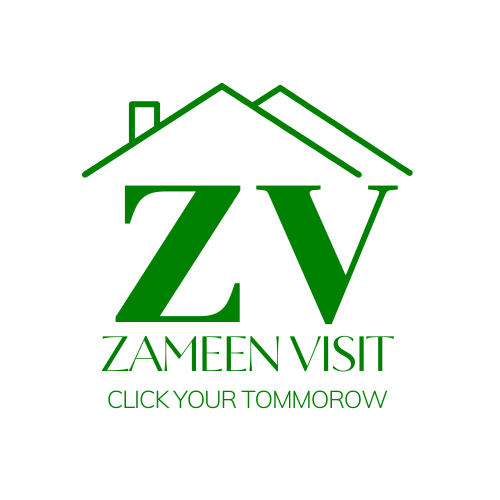
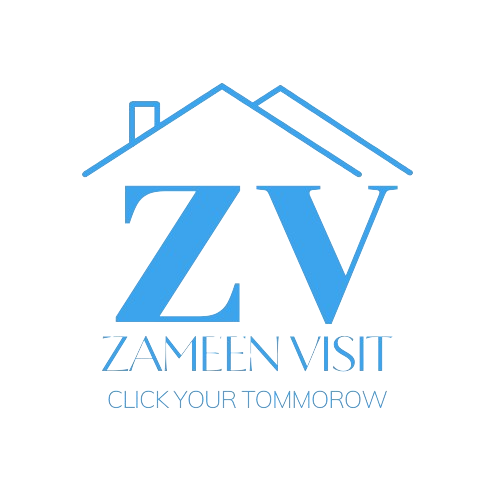
update landing page

diff --git a/src/components/property/Agencies/AgencyCitySearch.tsx b/src/components/property/Agencies/AgencyCitySearch.tsx
@@ -1,0 +1,138 @@
+"use client";
+import * as React from "react";
+import { Check, ChevronsUpDown } from "lucide-react";
+
+import { cn } from "@/lib/utils";
+import { Button } from "@/components/ui/button";
+import {
+  Command,
+  CommandEmpty,
+  CommandGroup,
+  CommandInput,
+  CommandItem,
+  CommandList,
+} from "@/components/ui/command";
+import {
+  Popover,
+  PopoverContent,
+  PopoverTrigger,
+} from "@/components/ui/popover";
+import { useFormState } from "react-dom";
+import { getCities, getLocations } from "@/server-actions/Search/location";
+import { getAgencyCities } from "@/server-actions/Agency/agency";
+
+// const cities = [
+//   "Lahore",
+//   "Karachi",
+//   "Islamabad",
+//   "Rawalpindi",
+//   "Faisalabad",
+//   "Multan",
+//   "Peshawar",
+//   "Quetta",
+//   "Gujranwala",
+//   "Sialkot",
+//   "Hyderabad",
+//   "Bahawalpur",
+//   "Sargodha",
+//   "Sukkur",
+//   "Larkana",
+//   "Sheikhupura",
+//   "Jhang",
+//   "Rahim Yar Khan",
+//   "Mardan",
+//   "Gujrat",
+//   "Kasur",
+//   "Mingora",
+//   "Dera Ghazi Khan",
+//   "Nawabshah",
+//   "Sahiwal",
+//   "Mirpur Khas",
+//   "Okara",
+//   "Mandi Bahauddin",
+//   "Jacobabad",
+//   "Jhelum",
+//   "Khanewal",
+//   "Khairpur",
+//   "Khuzdar",
+//   "Daska",
+//   "Gojra",
+//   "Mandi Bahauddin",
+//   "Muridke",
+//   "Bahawalnagar",
+//   "Pakpattan",
+//   "Tando Allahyar",
+//   "Hafizabad",
+//   "Kotli",
+//   "Loralai",
+//   "Dera Ismail Khan",
+//   "Chaman",
+//   "Turbat",
+//   "Charsadda",
+//   "Kamalia",
+//   "Umerkot",
+// ];
+
+export function AgencyCitySearch({
+  city,
+  setCity,
+}: {
+  city: string;
+  setCity: (city: string) => void;
+}) {
+  const [open, setOpen] = React.useState(false);
+
+  const [cities, setCities] = React.useState([]);
+
+  React.useEffect(() => {
+    async function getCitiesData() {
+      const data = await getAgencyCities();
+      data?.agencyCities && setCities(data.agencyCities);
+    }
+    getCitiesData();
+  }, []);
+
+  return (
+    <Popover open={open} onOpenChange={setOpen}>
+      <PopoverTrigger asChild>
+        <Button
+          variant="outline"
+          role="combobox"
+          aria-expanded={open}
+          className="w-full justify-between"
+        >
+          {city ? cities?.find((cty: string) => cty === city) : "Select a city"}
+          <ChevronsUpDown className="ml-2 h-4 w-4 shrink-0 opacity-50" />
+        </Button>
+      </PopoverTrigger>
+      <PopoverContent className=" p-0">
+        <Command>
+          <CommandInput placeholder="Search Location..." />
+          <CommandList className="">
+            <CommandEmpty>No cities found</CommandEmpty>
+            <CommandGroup>
+              {cities?.map((cty: string) => (
+                <CommandItem
+                  key={cty}
+                  value={cty}
+                  onSelect={(currentValue) => {
+                    setCity(cty);
+                    setOpen(false);
+                  }}
+                >
+                  <Check
+                    className={cn(
+                      "mr-2 h-4 w-4",
+                      cty === city ? "opacity-100" : "opacity-0"
+                    )}
+                  />
+                  {cty}
+                </CommandItem>
+              ))}
+            </CommandGroup>
+          </CommandList>
+        </Command>
+      </PopoverContent>
+    </Popover>
+  );
+}

diff --git a/src/server-actions/Agency/agency.ts b/src/server-actions/Agency/agency.ts
@@ -207,3 +207,52 @@ export async function getAgenciesByCity(city: string) {
     };
   }
 }
+
+export async function getAllAgenciesAddress(city: string) {
+  try {
+    const res = await fetch(
+      `${base.URL}/api/agency/findAgencyAddressAndCompanyByCity`,
+      {
+        method: "POST",
+        headers: {
+          "Content-Type": "application/json",
+        },
+        next: {
+          tags: ["Agency"],
+        },
+        body: JSON.stringify({
+          city,
+        }),
+      }
+    );
+
+    const data = await res.json();
+    console.log(data);
+    return data;
+  } catch (error) {
+    return {
+      error: "An error occurred while fetching agencies address",
+    };
+  }
+}
+
+export async function getAgencyCities() {
+  try {
+    const res = await fetch(`${base.URL}/api/agency/getAllAgenciesCities`, {
+      headers: {
+        "Content-Type": "application/json",
+      },
+      next: {
+        tags: ["Agency"],
+      },
+    });
+
+    const data = await res.json();
+    console.log(data);
+    return data;
+  } catch (error) {
+    return {
+      error: "An error occurred while fetching cities",
+    };
+  }
+}

diff --git a/src/app/(realEstate)/blog/page.tsx b/src/app/(realEstate)/blog/page.tsx
@@ -3,22 +3,18 @@
 // import PageInfo from "@/app/blog/PageInfo";
 import React from "react";
 import PostCard from "@/components/blog/PostCard";
+import ToolHeaderCard from "@/components/features/tools/ToolHeaderCard";
 
 export default function BlogPage() {
   return (
     <main>
+      <ToolHeaderCard
+        image="https://images.pexels.com/photos/7199669/pexels-photo-7199669.jpeg?auto=compress&cs=tinysrgb&w=600&lazy=load"
+        title="Blogs"
+        description="Stay Informed with the Latest Trends and Tips in Property Buying and Selling"
+        className="h-[450px]"
+      />
       <div className="container mx-auto">
-        {/* Page title info */}
-        {/* <section>
-               <PageInfo />
-            </section> */}
-
-        {/* Banner */}
-        {/* <section className="my-12">
-               <PostOverlayCard />
-            </section> */}
-
-        {/* All posts component */}
         <section className="my-20">
           <div className=" grid grid-cols-1 md:grid-cols-2 lg:grid-cols-3 gap-5">
             {[1, 2, 3].map((item: any) => (

diff --git a/src/components/property/PropertyMap/PlotFinderMap.tsx b/src/components/property/PropertyMap/PlotFinderMap.tsx
@@ -45,15 +45,15 @@ export default function PlotFinderMap({
     address: "",
     city: "",
     geo: {
-      lat: 31.5204,
-      lng: 74.3587,
+      lat: 30.3753,
+      lng: 69.3451,
     },
   });
 
   const [viewState, setViewState] = useState({
-    latitude: propertyList[0]?.location?.geo?.lat || 35.668641,
-    longitude: propertyList[0]?.location?.geo?.lng || 139.750567,
-    zoom: 10,
+    latitude: propertyList[0]?.location?.geo?.lat || 28.1863846711864,
+    longitude: propertyList[0]?.location?.geo?.lng || 67.6952367278874,
+    zoom: 7,
   });
 
   const router = useRouter();
@@ -69,9 +69,9 @@ export default function PlotFinderMap({
     if (location.address) {
       router.replace(`/plot-finder?location=${location.address}`);
       setViewState({
-        latitude: location?.geo?.lat || 35.668641,
-        longitude: location?.geo?.lng || 139.750567,
-        zoom: 10,
+        latitude: location?.geo?.lat || 28.1863846711864,
+        longitude: location?.geo?.lng || 67.6952367278874,
+        zoom: 15,
       });
     }
   }, [location]);

diff --git a/src/components/features/contact/ContactMap.tsx b/src/components/features/contact/ContactMap.tsx
@@ -16,8 +16,8 @@ import MapContactCard from "./MapContactCard";
 
 const mapboxToken = base.MAP_TOKEN;
 const CURRENT_LOCATION = {
-  latitude: 35.668641,
-  longitude: 139.750567,
+  latitude: 31.4242876,
+  longitude: 74.3483542,
 };
 
 export default function ContactMap() {
@@ -42,7 +42,7 @@ export default function ContactMap() {
         initialViewState={{
           latitude: CURRENT_LOCATION.latitude,
           longitude: CURRENT_LOCATION.longitude,
-          zoom: 10,
+          zoom: 15,
         }}
         maxZoom={20}
         minZoom={3}
@@ -69,7 +69,8 @@ export default function ContactMap() {
             </div>
           </Popup>
         )}
-        <Marker longitude={139.750567} latitude={35.668641}>
+
+        <Marker longitude={74.3483542} latitude={31.424287}>
           <button
             type="button"
             className="cursor-pointer"

diff --git a/src/components/property/Agencies/AgencySearchCard.tsx b/src/components/property/Agencies/AgencySearchCard.tsx
@@ -15,6 +15,7 @@ import { Label } from "@/components/ui/label";
 import { Search } from "lucide-react";
 import Link from "next/link";
 import React from "react";
+import { AgencyCitySearch } from "./AgencyCitySearch";
 
 export default function AgencySearchCard() {
   const [city, setCity] = React.useState("");
@@ -28,7 +29,7 @@ export default function AgencySearchCard() {
       <CardContent className="pt-4 grid grid-cols-5 gap-4">
         <div className="space-y-1 col-span-2">
           <Label htmlFor="city">City</Label>
-          <CitySearch city={city} setCity={setCity} />
+          <AgencyCitySearch city={city} setCity={setCity} />
         </div>
         <div className="space-y-1 col-span-2">
           <Label htmlFor="city">Agencies Location</Label>

diff --git a/src/components/common/AgenciesByCitySearch.tsx b/src/components/common/AgenciesByCitySearch.tsx
@@ -17,7 +17,10 @@ import {
   PopoverContent,
   PopoverTrigger,
 } from "@/components/ui/popover";
-import { getAgenciesByCity } from "@/server-actions/Agency/agency";
+import {
+  getAgenciesByCity,
+  getAllAgenciesAddress,
+} from "@/server-actions/Agency/agency";
 
 export function AgenciesByCitySearch({
   location,
@@ -35,9 +38,9 @@ export function AgenciesByCitySearch({
   React.useEffect(() => {
     async function getLocations() {
       console.log(city);
-      const data = await getAgenciesByCity(city);
+      const data = await getAllAgenciesAddress(city);
       console.log(data);
-      data?.agencies && setLocations(data?.agencies);
+      data?.addresses && setLocations(data?.addresses);
     }
     getLocations();
   }, [city]);

diff --git a/src/components/layout/Footer.tsx b/src/components/layout/Footer.tsx
@@ -3,6 +3,7 @@ import Image from "next/image";
 import Link from "next/link";
 import { Input } from "@/components/ui/input";
 import { Button } from "@/components/ui/button";
+import ZameenVisitLogo from "@/images/Z.png";
 
 const Footer = () => {
   return (
@@ -10,9 +11,9 @@ const Footer = () => {
       <div className="max-w-screen-xl mx-auto grid grid-cols-2 md:grid-cols-6 gap-8">
         <div className="col-span-1 md:col-span-2">
           <Image
-            src="/images/zameenVisit2.png"
+            src={ZameenVisitLogo}
             alt="Company Logo"
-            className="h-16 w-auto"
+            className=""
             width={100}
             height={100}
           />

diff --git a/src/components/features/tools/ToolHeaderCard.tsx b/src/components/features/tools/ToolHeaderCard.tsx
@@ -1,3 +1,4 @@
+import { cn } from "@/lib/utils";
 import Image from "next/image";
 import React from "react";
 
@@ -5,13 +6,15 @@ export default function ToolHeaderCard({
   title,
   image,
   description,
+  className,
 }: {
   title: string;
   description: string;
   image: string;
+  className?: string;
 }) {
   return (
-    <header className="relative bg-cover bg-center h-96">
+    <header className={cn("relative bg-cover bg-center h-96", className)}>
       <Image
         src={image}
         alt={title}

diff --git a/src/app/page.tsx b/src/app/page.tsx
@@ -55,7 +55,7 @@ export default async function Home() {
       <section id="properties" className="pt-14 lg:px-20 min-h-screen">
         <PropertyList properties={properties} />
       </section>
-      <section className="pt-14 p-8 lg:px-20 min-h-screen">
+      <section className="mt-14 pt-14 p-8 lg:px-20 min-h-screen bg-[#b2d5eb]">
         <h1 className="text-3xl font-bold py-10">Properties by City</h1>
         <div className="grid lg:grid-cols-4 gap-4">
           {CITIES.map((city, index) => (

diff --git a/src/components/features/contact/MapContactCard.tsx b/src/components/features/contact/MapContactCard.tsx
@@ -20,7 +20,7 @@ export default function MapContactCard() {
         <div className="space-y-3">
           <p className="flex items-center space-x-2">
             <MapPin className="h-4 w-4" />
-            <span className="">123, Street Name, City Name, Country Name</span>
+            <span className="">58 A Shadab Colony Lahore, Pakistan</span>
           </p>
           <p className="flex items-center space-x-2">
             <Phone className="h-4 w-4" /> <span>+92 349 441 1115</span>

diff --git a/src/app/globals.css b/src/app/globals.css
@@ -14,8 +14,8 @@
     --popover-foreground: 222.2 84% 4.9%;
 
     /* --primary: 222.2 47.4% 11.2%; */
-    --primary: 119.5 97.6% 25.1%;
-    /* --primary: 215 100% 50%; */
+    /* --primary: 119.5 97.6% 25.1%; */
+    --primary: 210 100% 70%;
     --primary-foreground: 210 40% 98%;
 
     --secondary: 210 40% 96.1%;
